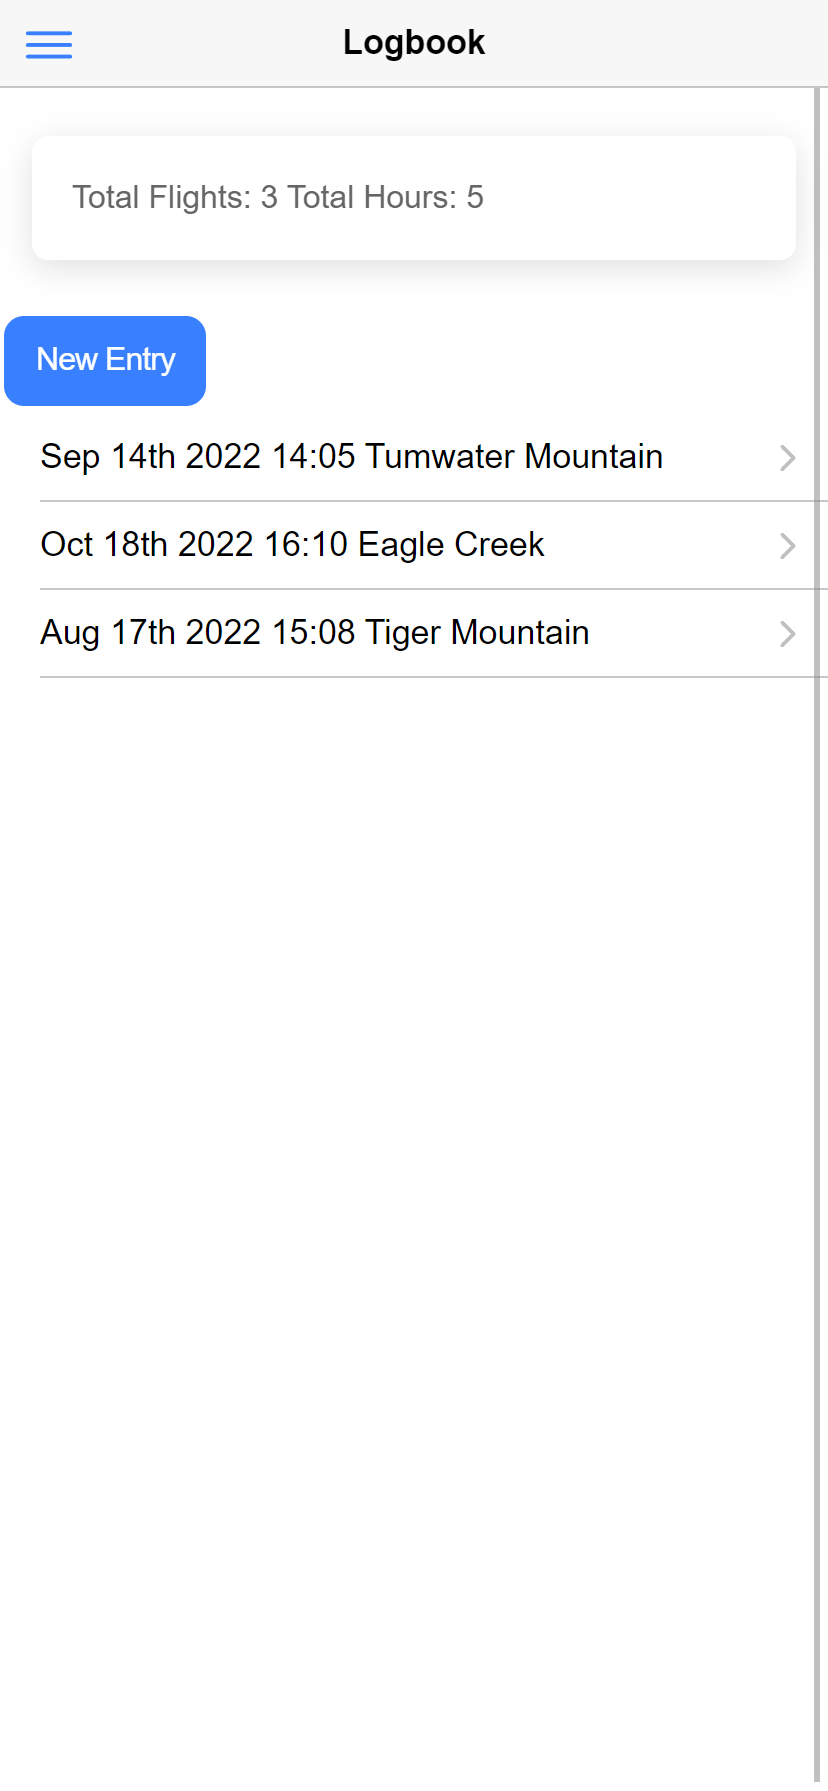
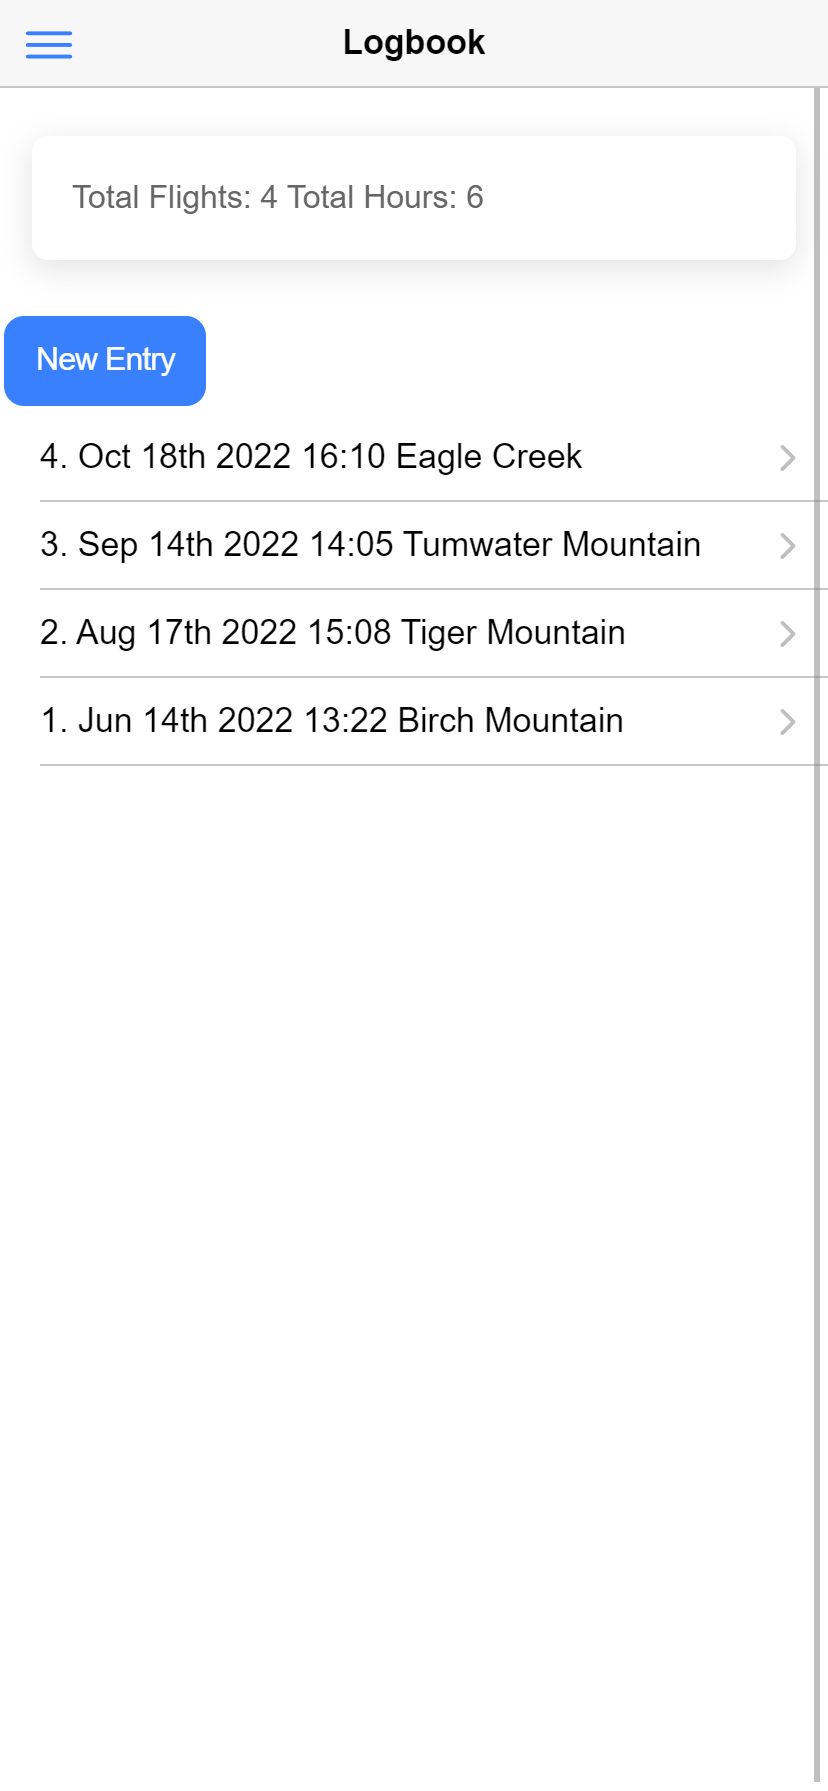
added numbering and sorting to LogbookList, updated readme.md

diff --git a/src/components/LogbookList.tsx b/src/components/LogbookList.tsx
@@ -26,7 +26,7 @@ const LogbookList = ({
   id: propId,
 }: LogbookListProps) => {
   const cognitoIdentity = useSelector((state: RootState) => state.cognitoIdentity);
-
+  // const [logbookSorted, setLogbookSorted] = useState<Array<FlightLog>>([]);
   useEffect(() => {
     if (showModal) return;
     const ownerId = !propId ? cognitoIdentity.cognito.sub || null : propId;
@@ -37,11 +37,18 @@ const LogbookList = ({
           authMode: 'AMAZON_COGNITO_USER_POOLS',
           variables: { filter: { owner: { eq: ownerId } } },
         })) as { data: ListFlightLogsQuery };
-        console.log(logbookData);
-
-        setLogbookList(logbookData?.data?.listFlightLogs?.items || []);
+        const flightLogsUnsorted = logbookData?.data?.listFlightLogs?.items || [];
+        setLogbookList(
+          flightLogsUnsorted.sort((a, b) => {
+            const aStart = a?.startDateTime || 0;
+            const bStart = b?.startDateTime || 0;
+            const aEpochTime = Math.floor(Number(new Date(aStart)));
+            const bEpochTime = Math.floor(Number(new Date(bStart)));
+            return bEpochTime - aEpochTime;
+          })
+        );
       } catch (e) {
-        console.error('Error getting logbook list: ', e);
+        console.error('Error getting logbook list: ', e); // eslint-disable-line no-console
       }
     };
     getLogbookList();
@@ -51,15 +58,17 @@ const LogbookList = ({
     setFlightlogEdit(flightlog);
     setShowModal(true);
   };
-
+  let flightNumber = logbookList.length + 1;
   return (
     <div>
       <IonList>
         {logbookList?.map((flightLog: FlightLog) => {
+          flightNumber -= 1;
           return (
             <IonItem button key={flightLog.id} onClick={() => editFlightLog(flightLog)}>
               {' '}
-              {moment(flightLog.startDateTime).format('MMM Do YYYY HH:mm')} {flightLog.launchSite}{' '}
+              {flightNumber}. {moment(flightLog.startDateTime).format('MMM Do YYYY HH:mm')}{' '}
+              {flightLog.launchSite}{' '}
             </IonItem>
           );
         })}

diff --git a/src/components/CommentList.tsx b/src/components/CommentList.tsx
@@ -50,16 +50,18 @@ const CommentList = ({ propId }: CommentListProps) => {
         <IonList>
           <IonListHeader>Instructor Comments:</IonListHeader>
           {commentList?.map((comment: Comment | null) => {
+            const commentID = comment?.id || '';
+            const commentMessage = comment?.message || '';
             return (
               <IonItem
                 button
-                key={comment!.id}
+                key={commentID}
                 onClick={() => {
                   setShowActionSheet(true);
-                  setCommentId(comment!.id);
+                  setCommentId(commentID);
                 }}
               >
-                {comment!.message}
+                {commentMessage}
               </IonItem>
             );
           })}

diff --git a/src/components/LogbookModalForm.tsx b/src/components/LogbookModalForm.tsx
@@ -78,7 +78,7 @@ const LogbookModalForm = ({
       }
     };
     getGliders();
-  }, [cognitoIdentity.cognito.sub, flightlogEdit]);
+  }, [cognitoIdentity.cognito.sub, flightlogEdit, propId]);
 
   const createNewFlightLog = async (data: FlightLog) => {
     await API.graphql({

diff --git a/screenshots/readme.md b/screenshots/readme.md
@@ -1,0 +1,1 @@
+screenshots are all taken in iphone XR format
